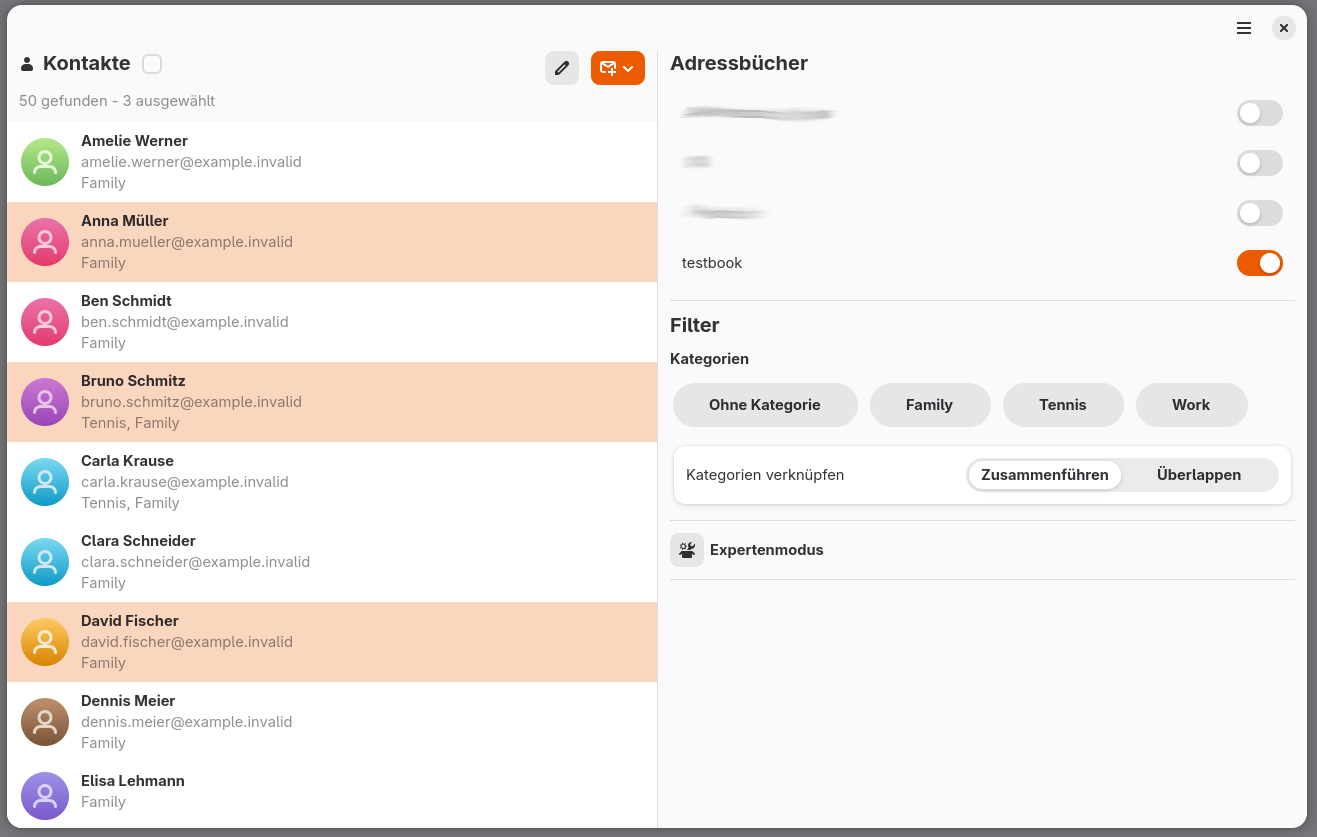
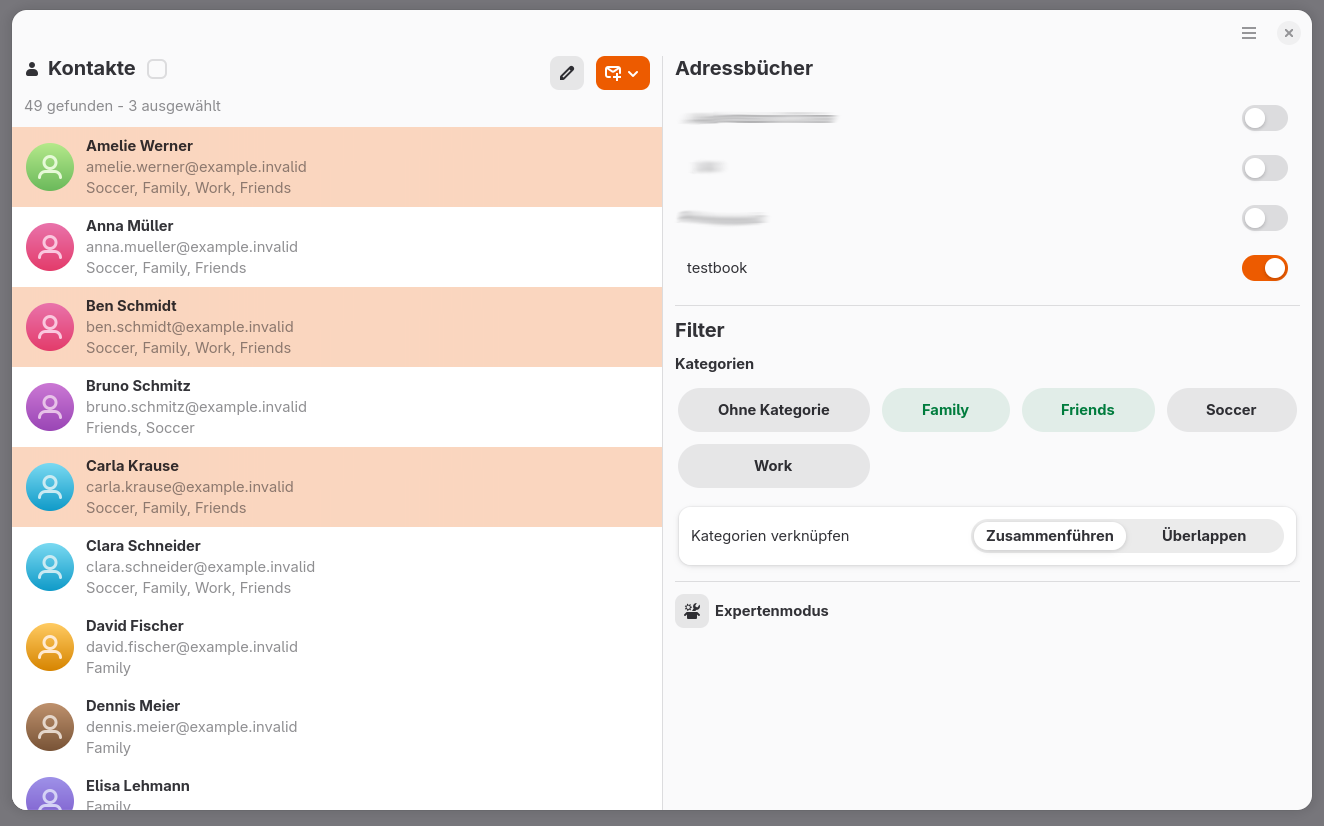
screenshots

diff --git a/categories_frontend.py b/categories_frontend.py
@@ -470,18 +470,7 @@ class KontaktfilterWindow(Adw.ApplicationWindow):
 
 
 
-        # Trennlinie unter dem Expertenmodus
-        experten_trennlinie_unten = Gtk.Separator(
-            orientation=Gtk.Orientation.HORIZONTAL
-        )
-        rechte_seite.append(experten_trennlinie_unten)
-
-        # Spacer
-        spacer = Gtk.Box()
-
-        spacer.set_vexpand(True)
-
-        rechte_seite.append(spacer)
+    
 
 
         # ---------------------------------------------------------
